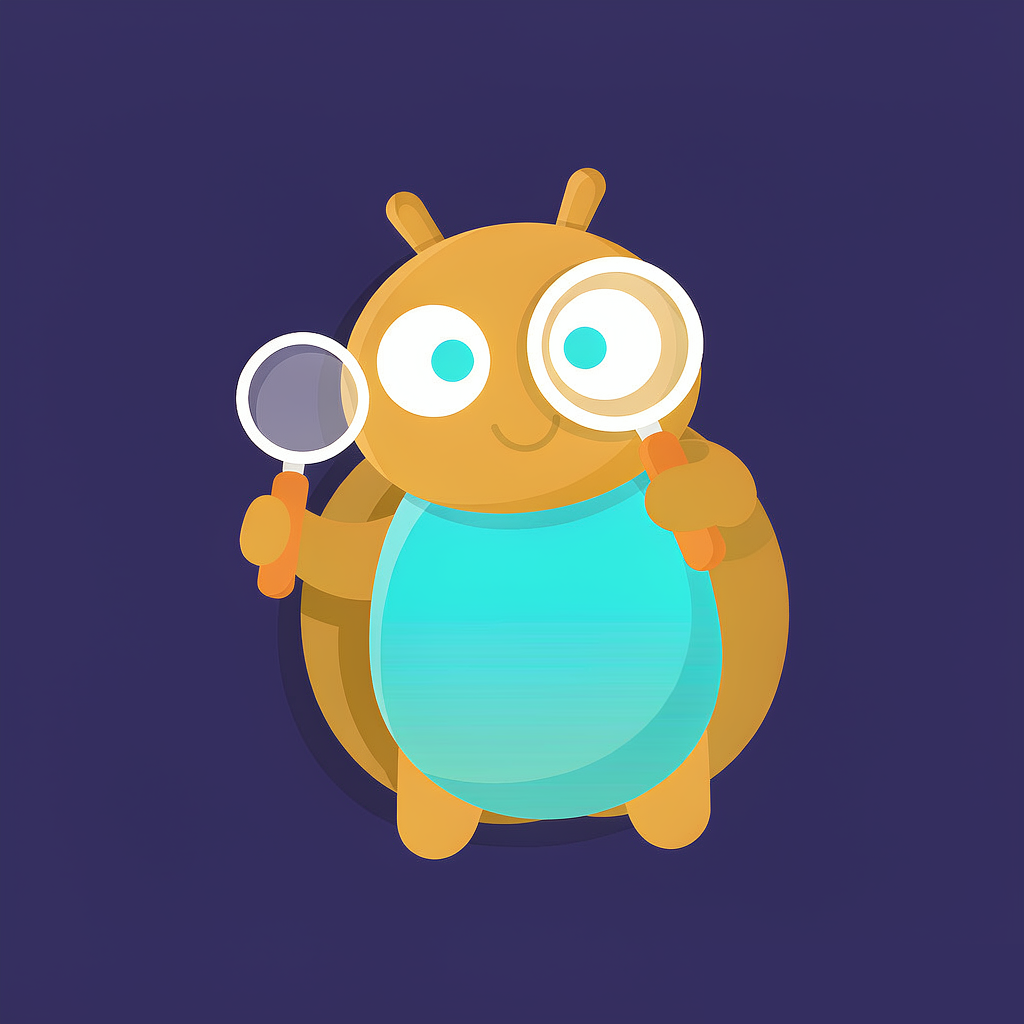
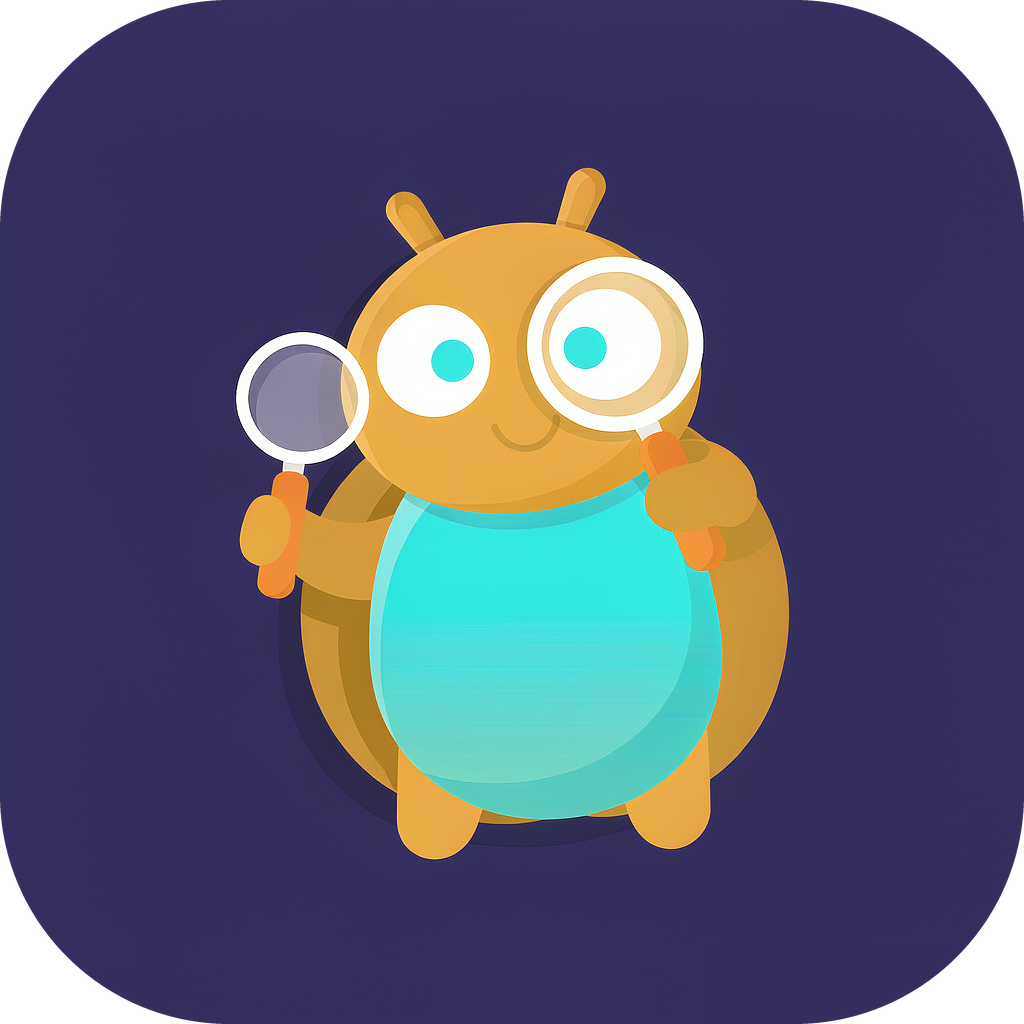
docs: bake iOS rounded corners into mascot PNGs

diff --git a/README.md b/README.md
@@ -2,9 +2,9 @@
 
 <div align="center" style="display: flex; align-items: center; justify-content: center; gap: 16px;">
 
-<img src="https://raw.githubusercontent.com/zero-labsco/zero_inspector_kit/main/image/mascot/Zee.png" width="96" style="border-radius: 22%;" />
+<img src="https://raw.githubusercontent.com/zero-labsco/zero_inspector_kit/main/image/mascot/Zee.png" width="96" />
 <span style="font-size: 1.1em;"><strong>English</strong> &nbsp;|&nbsp; <a href="README_zh.md">简体中文</a></span>
-<img src="https://raw.githubusercontent.com/zero-labsco/zero_inspector_kit/main/image/mascot/Amber.png" width="96" style="border-radius: 22%;" />
+<img src="https://raw.githubusercontent.com/zero-labsco/zero_inspector_kit/main/image/mascot/Amber.png" width="96" />
 
 </div>
 

diff --git a/README_zh.md b/README_zh.md
@@ -2,9 +2,9 @@
 
 <div align="center" style="display: flex; align-items: center; justify-content: center; gap: 16px;">
 
-<img src="https://raw.githubusercontent.com/zero-labsco/zero_inspector_kit/main/image/mascot/Zee.png" width="96" style="border-radius: 22%;" />
+<img src="https://raw.githubusercontent.com/zero-labsco/zero_inspector_kit/main/image/mascot/Zee.png" width="96" />
 <span style="font-size: 1.1em;"><strong>简体中文</strong> &nbsp;|&nbsp; <a href="README.md">English</a></span>
-<img src="https://raw.githubusercontent.com/zero-labsco/zero_inspector_kit/main/image/mascot/Amber.png" width="96" style="border-radius: 22%;" />
+<img src="https://raw.githubusercontent.com/zero-labsco/zero_inspector_kit/main/image/mascot/Amber.png" width="96" />
 
 </div>
 
